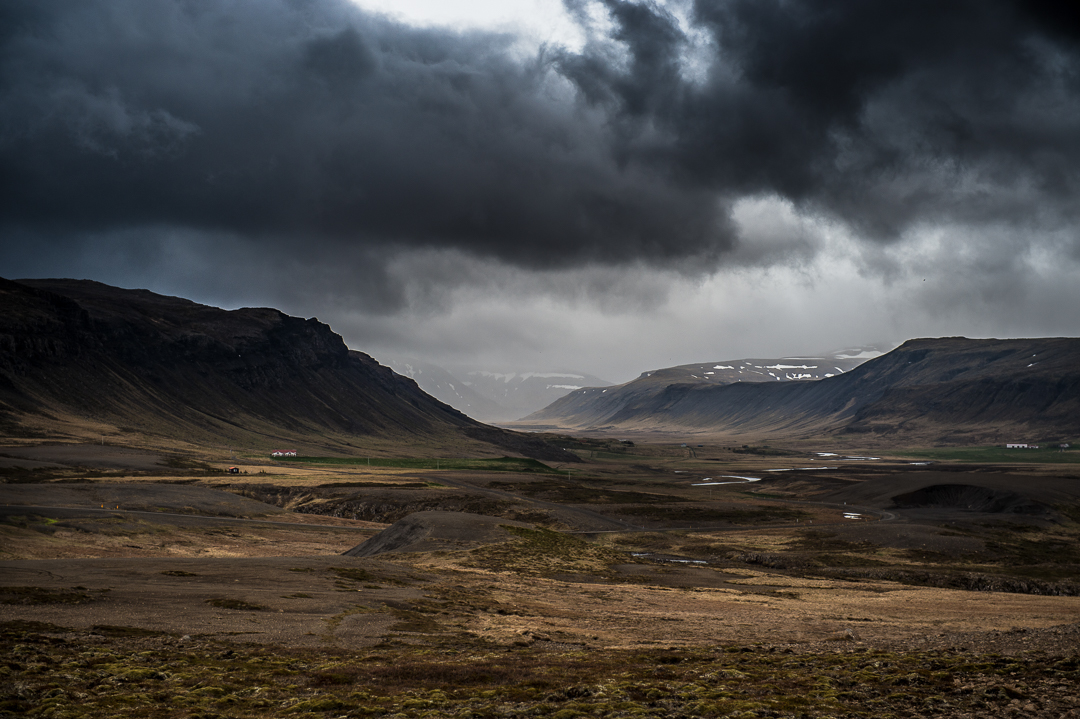
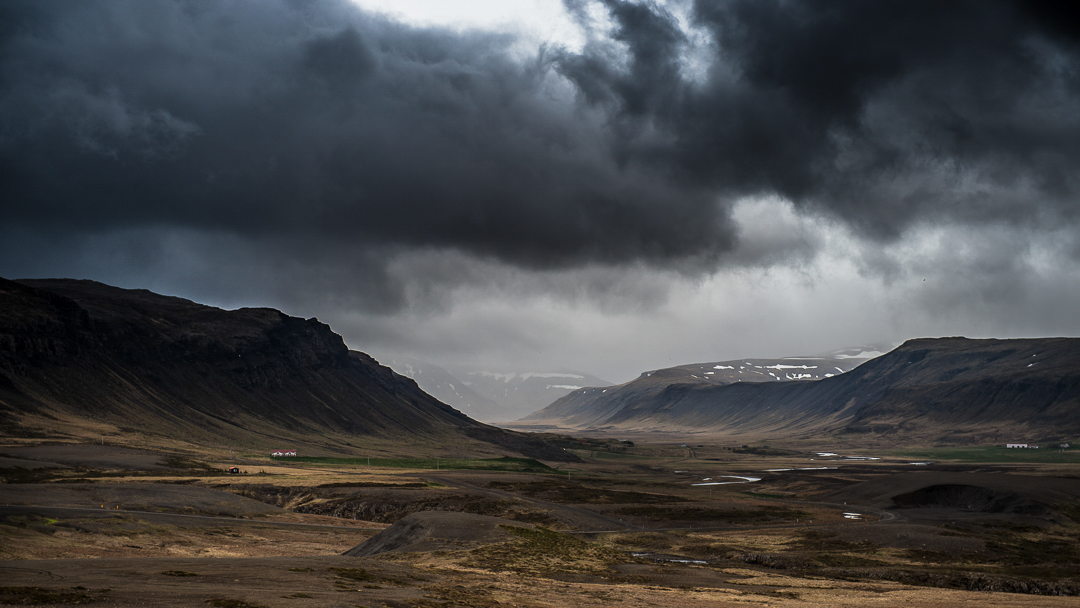
added homepage photo

diff --git a/react-app/src/App.js b/react-app/src/App.js
@@ -1,5 +1,5 @@
 import React, { useState, useEffect } from "react";
-import { BrowserRouter, Switch } from "react-router-dom";
+import { BrowserRouter, Switch, Route } from "react-router-dom";
 import NavBar from "./components/NavBar/";
 import ProtectedRoute from "./components/auth/ProtectedRoute";
 import UsersList from "./components/UsersList";
@@ -7,6 +7,7 @@ import User from "./components/User";
 import { authenticate } from "./services/auth";
 import { useDispatch } from "react-redux";
 import { setUser } from "./store/session";
+import HomePage from "./components/HomePage";
 
 function App() {
   const [authenticated, setAuthenticated] = useState(false);
@@ -38,9 +39,9 @@ function App() {
         <ProtectedRoute path="/users/:userId" exact={true} authenticated={authenticated}>
           <User />
         </ProtectedRoute>
-        <ProtectedRoute path="/" exact={true} authenticated={authenticated}>
-          <h1>My Home Page</h1>
-        </ProtectedRoute>
+        <Route path="/" exact={true} authenticated={authenticated}>
+          <HomePage />
+        </Route>
       </Switch>
     </BrowserRouter>
   );

diff --git a/react-app/src/components/HomePage/HomePage.js b/react-app/src/components/HomePage/HomePage.js
@@ -4,11 +4,10 @@ import { useSelector } from 'react-redux'
 import './HomePage.css'
 
 const HomePage = () => {
-    user = useSelector(state => state.session.user)
+    const user = useSelector(state => state.session.user)
 
     return (
         <div className='homepage__container'>
-            
         </div>
     )
 }

diff --git a/react-app/src/components/HomePage/HomePage.css b/react-app/src/components/HomePage/HomePage.css
@@ -1,3 +1,10 @@
 .homepage__container{
     background-image: url("HomePage.jpg");
+    background-repeat: no-repeat;
+    background-size: contain;
+    height: 100vh;
+    width: 100%;
+    background-position-x: center;
+    background-position-y: center;
+    background-color: rgb(40,35,32);
 }
